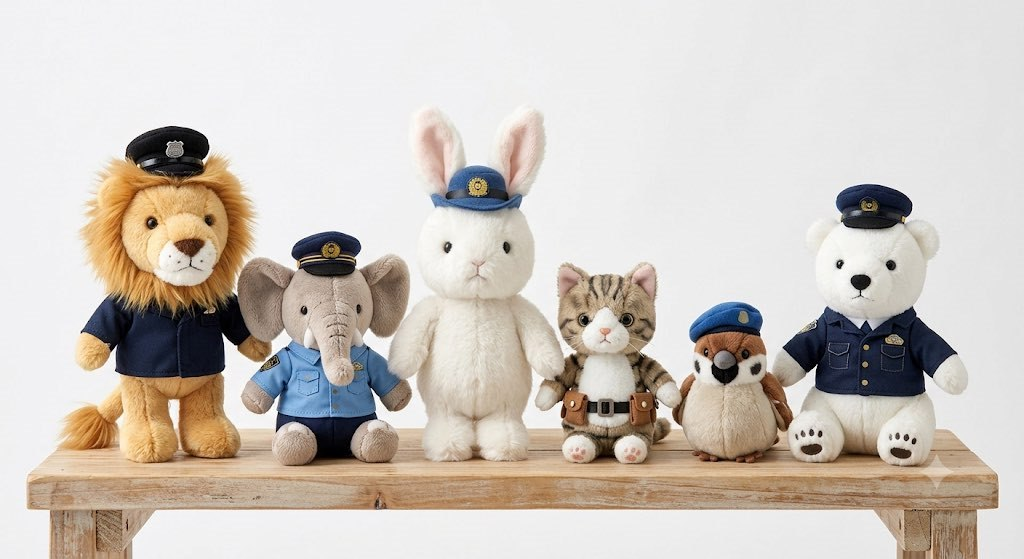
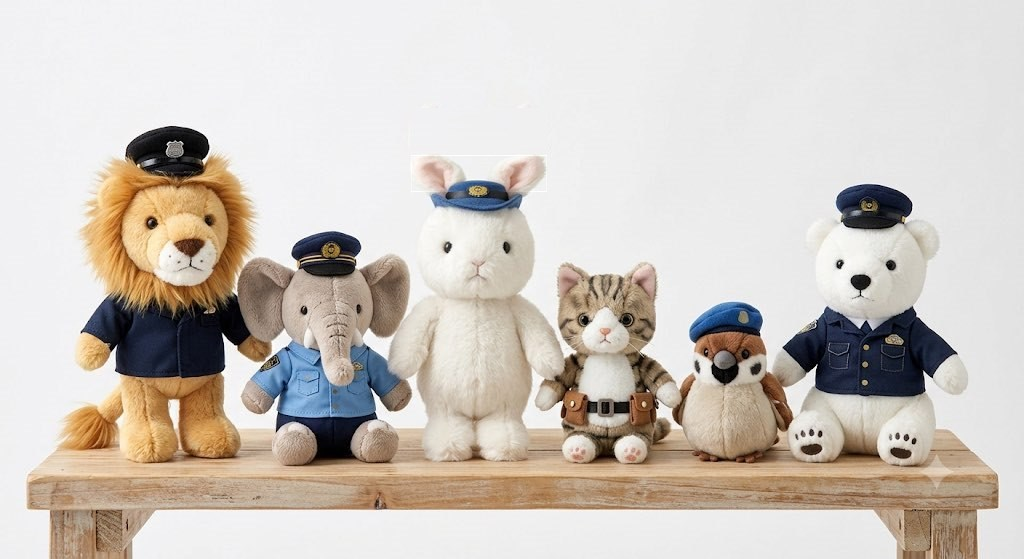
방탈출: 토끼인형 귀 축소 편집(사자가 최대), 철문 정답 참새고양이코끼리곰토끼사자

Changed region(s): [[0.4062, 0.1825, 0.5312, 0.3649]]

diff --git a/index.html b/index.html
@@ -583,14 +583,15 @@ const MAPS = {
       // ★초록 철문 (건물 우측 1층) — 동물 6개를 '크기 순서'(크레센도)대로 누르는 문제.
       //   힌트 = 공항 토이샵 인형 6종(전부 경찰모자) + 문에 그려진 크레센도·경찰모.
       //   ★정답 = "인형 크기" 순서(북쑥 확정 2026-08-13, 실제 동물 크기 아님!).
-      //   dolls.jpg 픽셀 실측(키): 참새158 < 고양이194 < 코끼리228 < 곰276 < 사자334 < 토끼340(귀 포함 최고)
+      //   북쑥 지시로 토끼 귀를 이미지 편집(45% 축소)해 사자가 최고가 되게 함.
+      //   dolls.jpg 픽셀 실측(키): 참새158 < 고양이194 < 코끼리228 < 곰276 < 토끼300 < 사자334
       //   맞을 때마다 초록 램프, 틀리면 빨강 번쩍+리셋, 완성 시 파랑+달칵(police_door).
       //   문 열리면 나오는 것(보상)은 북쑥 미정 — police_door 플래그에 붙이면 됨.
       { x:92,y:87, w:11,h:10, label:"초록 철문", closeup:{
         img:"img/closeup/police_door.jpg", badge:"🚪",
         caption:"🚪 건물 옆 초록 철문.\n동물 문양 여섯 개와 불 꺼진 홈 여섯 개가 있다.",
         action:{type:"seq",
-          answer:["sparrow","cat","elephant","bear","lion","rabbit"],
+          answer:["sparrow","cat","elephant","bear","rabbit","lion"],
           zones:[
             {k:"lion",     x:24.8,y:45.2, w:20,h:15, label:"사자"},
             {k:"bear",     x:49.7,y:44.9, w:20,h:15, label:"곰"},
